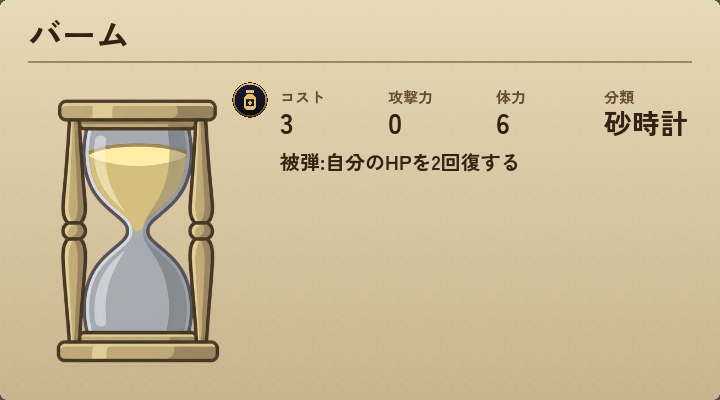
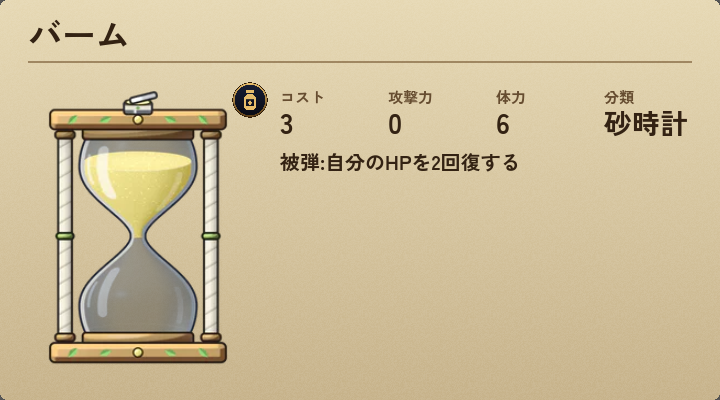
ビルド 2026.11.17(砂時計10枚の固有の姿、スマホのブラウザで対局開始時の処理落ちを軽く)を書き出し、更新のお知らせを #お知らせ へ投稿した記録を残す
新しい作業ツリーでは build/web が無く本番pckの書き出しが失敗したため、export_web.sh で書き出し先も作るようにした。

Changed region(s): [[0.0611, 0.21, 0.3361, 0.93]]

diff --git a/tools/discord/drafts/update-2026.11.17.md b/tools/discord/drafts/update-2026.11.17.md
@@ -1,0 +1,7 @@
+**あたらしいもの**
+- さらに10枚の砂時計が、それぞれ専用の見た目になったよ。バーム、キー、フォージ、レゾナンス、スパイクたちだよ。図鑑でながめてみてね
+
+**なおしたもの**
+- スマホのブラウザで、対戦が始まるときや砂時計を場に出すときにカクついていたのを軽くしたよ
+
+-# 遊ぶ → https://unityroom.com/games/sunadokei_arena
